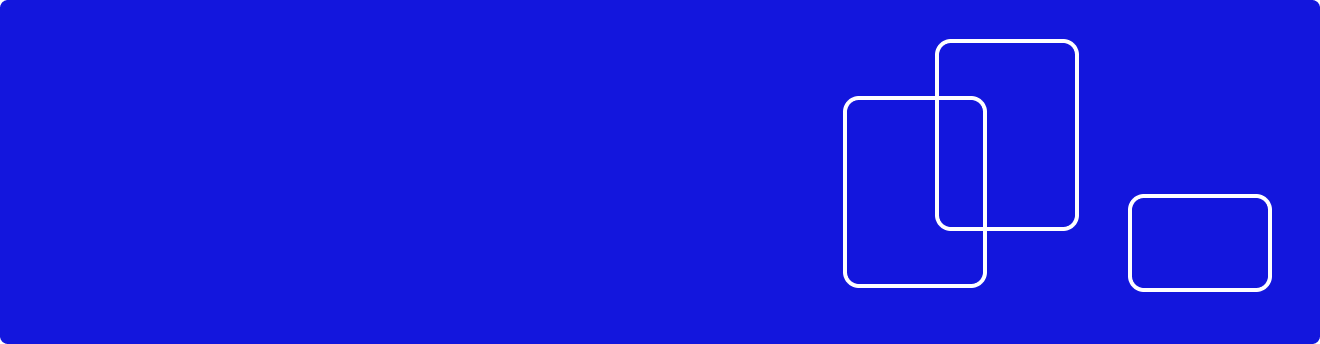
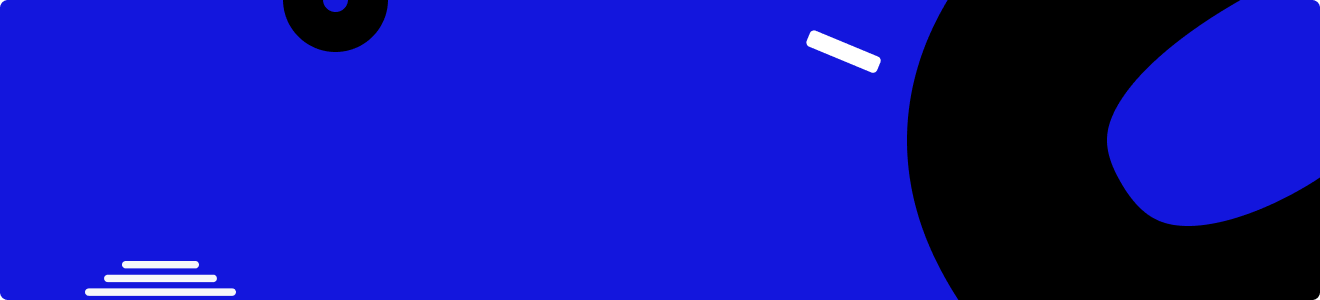
images updated

diff --git a/src/pages/index.tsx b/src/pages/index.tsx
@@ -108,10 +108,10 @@ const Home: NextPage = () => {
                                 <Text fontFamily="Lexend" fontSize={{base: "44px"}} lineHeight={{base: "42px"}} fontWeight={{base: "900"}} letterSpacing={{base: "0.04em"}} textAlign="center">
                                     <Trans>Connect your wallet<br></br>& get protected</Trans>
                                 </Text>
-                                    
-                        
-                                <Box w={{base: "14rem", sm: "16rem"}} >
-                                    <LoginForm buttonVariant={'primaryLight'} />
+                                <Box mt={10}>                             
+                                    <Box w={{base: "14rem", sm: "16rem"}} >
+                                        <LoginForm buttonVariant={'primaryLight'} />
+                                    </Box>
                                 </Box>
                             </Flex>
                         </Flex>
